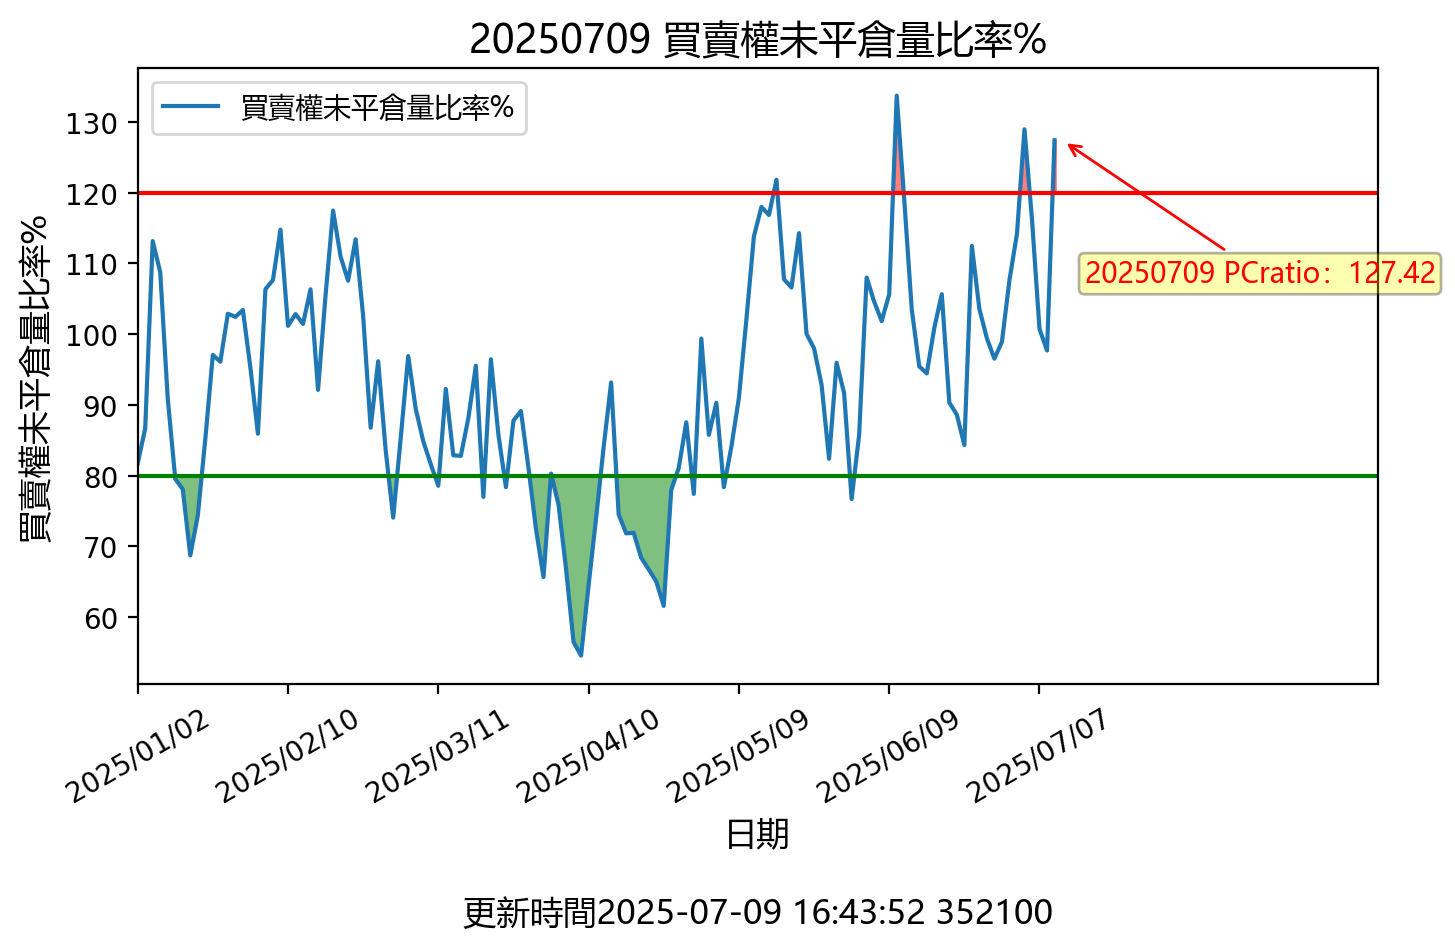
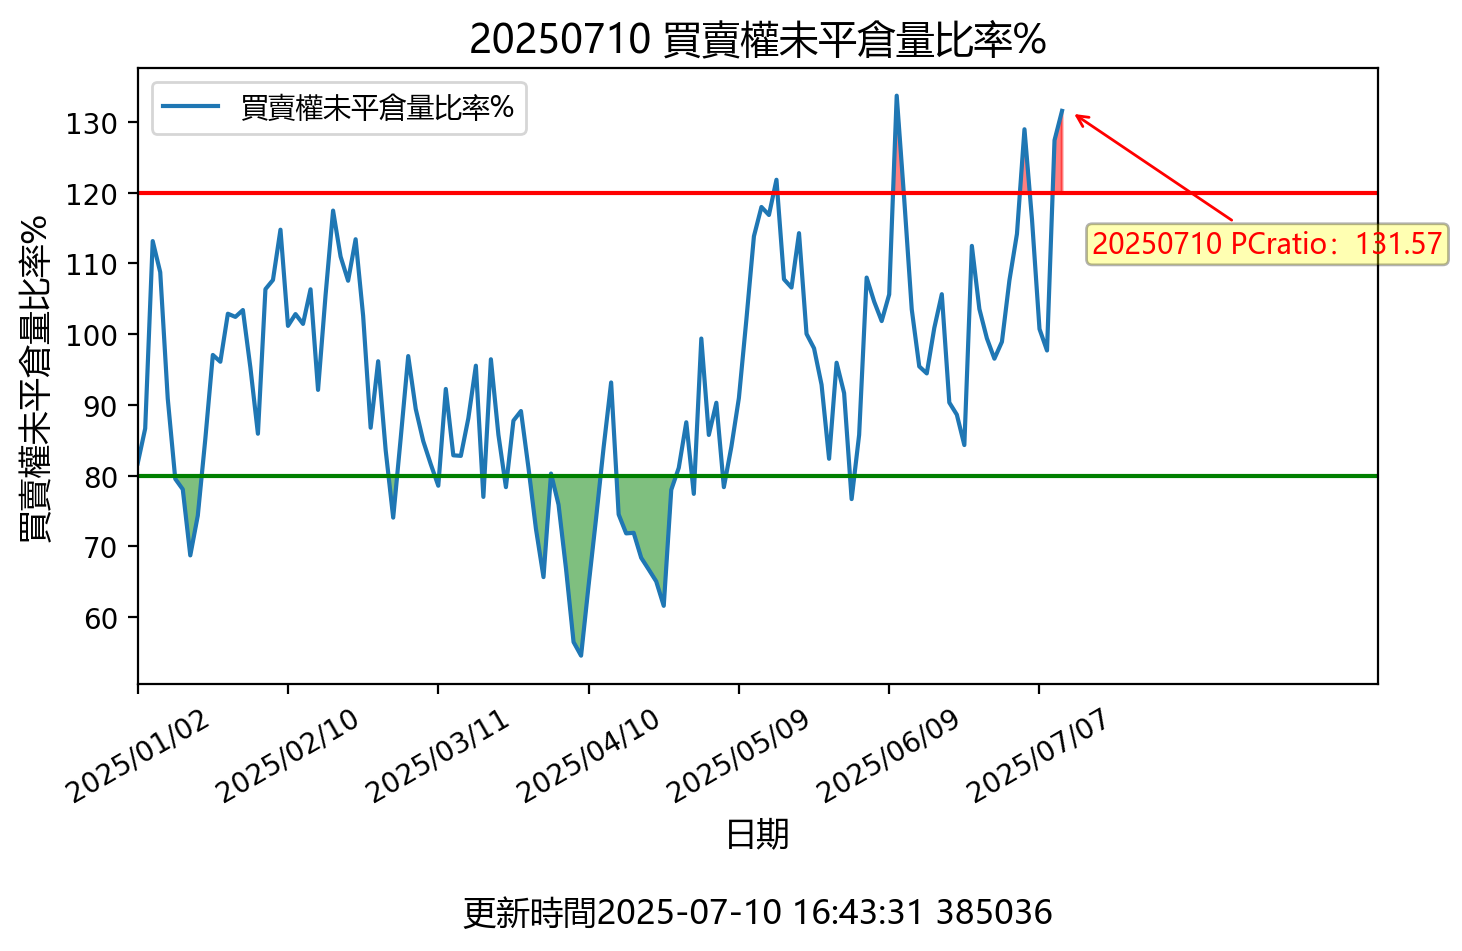
更新時間: Thu Jul 10 16:43:50 CST 2025

diff --git a/README.md b/README.md
@@ -1,12 +1,12 @@
-## 20250709 台指期「預估換倉成本」
+## 20250710 台指期「預估換倉成本」
 ![](images/txfcost.png)
 
-## 20250709 台指期「散戶小台多空比」
+## 20250710 台指期「散戶小台多空比」
 ![](images/bbiri.png)
 
-## 20250709 台指選擇權「Put/Call Ratios」
+## 20250710 台指選擇權「Put/Call Ratios」
 ![](images/pcratio.png)
 
-## 20250709 台指期「大額交易人」
+## 20250710 台指期「大額交易人」
 ![](images/blocktrade.png)
 
